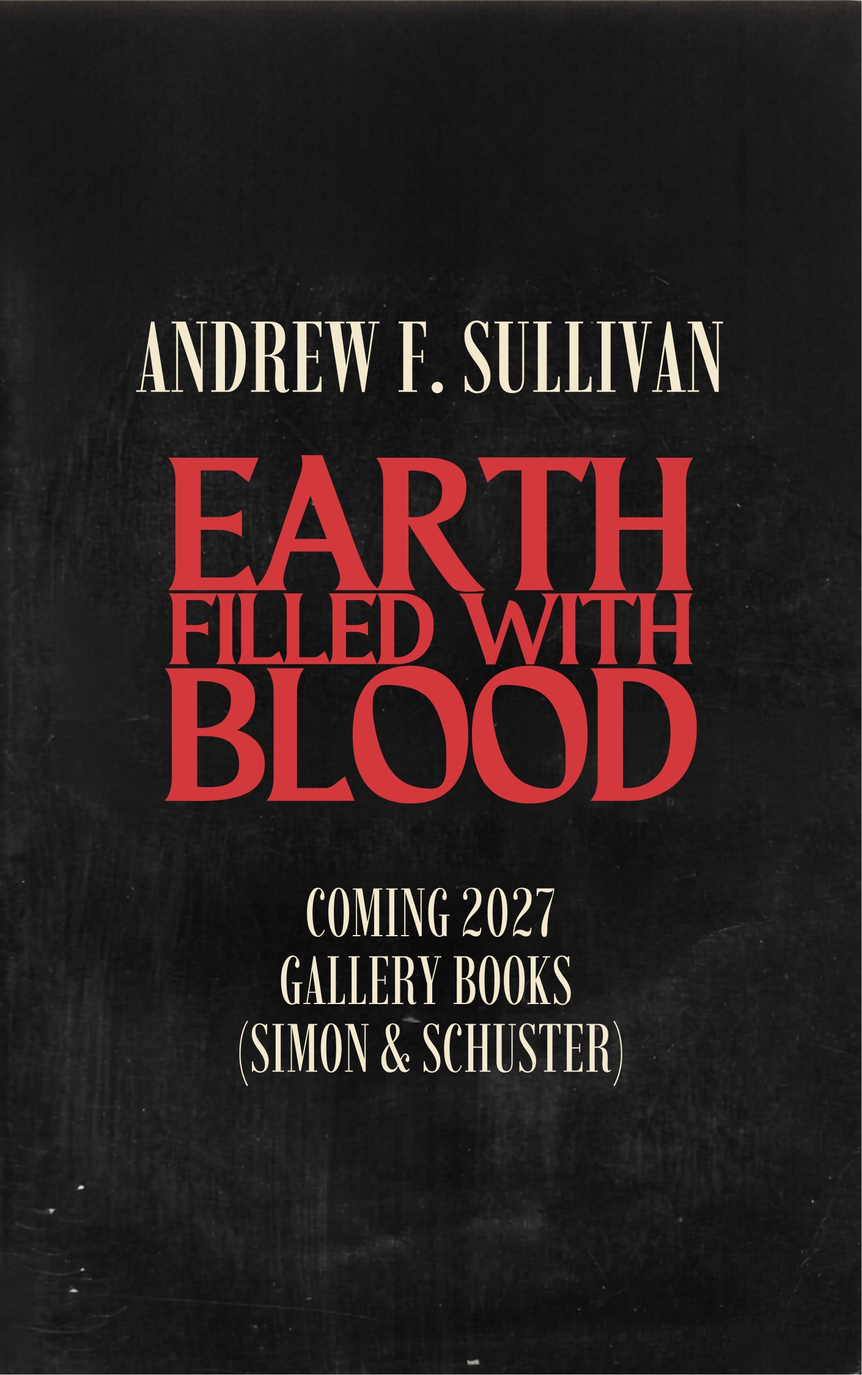
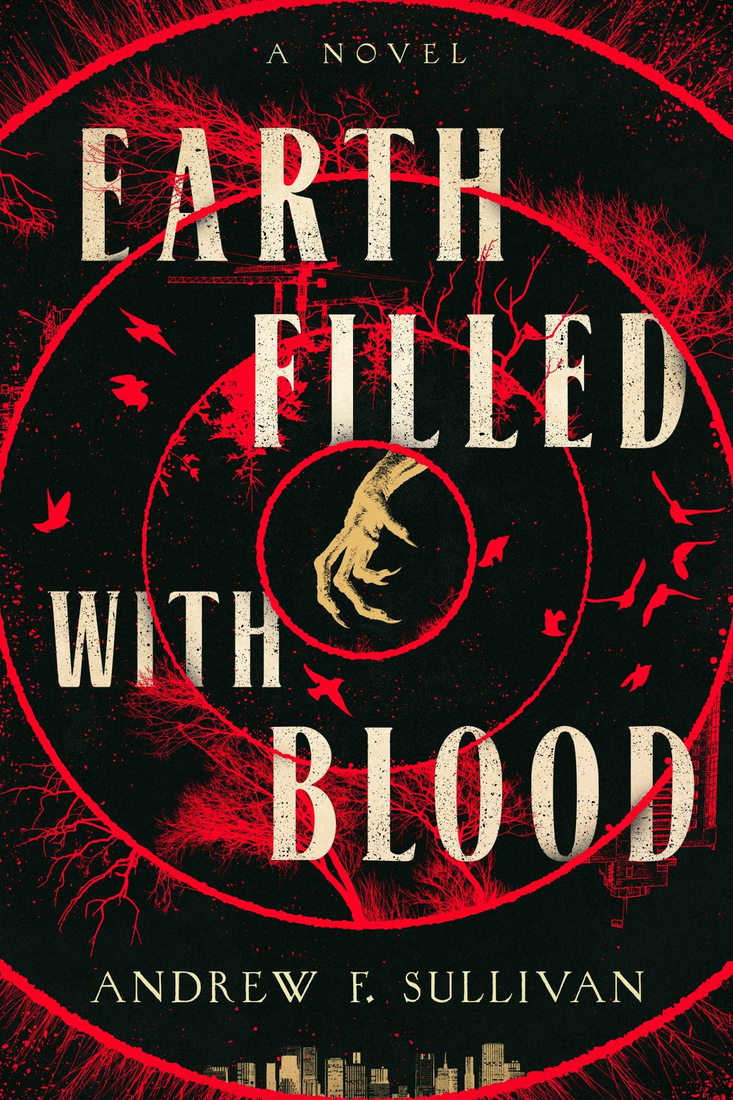
Earth Filled with Blood: final jacket, publisher copy, pre-order link
Claude-Session: https://claude.ai/code/session_018UooQwQgmm4FhudFENBWAr

diff --git a/site/src/content/books.ts b/site/src/content/books.ts
@@ -562,17 +562,21 @@ export const books: Book[] = [
   },
 ];
 
-// Forthcoming — the only facts on the current site are title, publisher, season.
+// Forthcoming — final jacket + publisher copy supplied by PK (Nov 2026).
 export const forthcoming = {
   title: 'Earth Filled with Blood',
   publisher: 'Gallery Books (Simon & Schuster)',
   year: 'Spring 2027',
-  // Placeholder cover supplied by PK — swap for the final jacket when it lands.
   cover: '/images/books/earth-filled-with-blood.jpg',
-  // Two-paragraph writeup supplied by PK.
+  preorder:
+    'https://www.simonandschuster.com/books/Earth-Filled-with-Blood/Andrew-F-Sullivan/9781668242254',
+  // Publisher jacket copy, verbatim as supplied by PK.
   blurb: [
-    `Coming 2027 is Andrew F. Sullivan's highly anticipated follow up to 2023's smash *The Marigold*.`,
-    `*Earth Filled with Blood* is billed as “Nosferatu Meets Succession.” Drawing on Irish folklore, this book follows a group of territorial, supernatural beings desperate to thrive in the modern world, and the ramshackle attempt to halt their domination.`,
+    `*Succession* meets *Nosferatu* in this contemporary gothic bloodbath steeped in Irish folklore from the acclaimed author of *The Marigold* and *The Handyman Method* (with Nick Cutter), about ancient supernatural dynasties fighting to dominate the modern world—and the ramshackle hunters determined to stop them.`,
+    `Garrett Hold was born into a dying dynasty. Buddy Over There has devoted his life to killing families like Garrett’s.`,
+    `Across Canada, ancient blood-drinking creatures have survived for generations by hiding in plain sight. Some control forgotten towns and lonely stretches of highway. Others, like the immensely powerful Mallodun family, have traded old kingdoms for corporate empires, accumulating wealth and influence while quietly feeding on the people around them. When Garrett unexpectedly falls for Fiona Mallodun, he sees an escape from the Holds’s crumbling legacy—and an invitation into a world more powerful and dangerous than anything he has ever known.`,
+    `Buddy, meanwhile, travels those same highways, leaving the unholy and inhuman dead and burning behind him. But when a young survivor joins his crusade, their hunt exposes something far larger than another nest of monsters: the old bloodlines appear to be consolidating, and the Malloduns are at the very center of it.`,
+    `As Garrett is pulled deeper into a domineering family’s terrifying ambitions and Buddy closes in from the outside, their stories race toward a collision that could forever change the balance between predator and prey.`,
   ],
 };
 

diff --git a/site/src/pages/Home.tsx b/site/src/pages/Home.tsx
@@ -44,7 +44,7 @@ export default function Home() {
               </Reveal>
             ))}
 
-            {/* Forthcoming — no cover yet; a striped field holds the slot */}
+            {/* Forthcoming — final jacket, publisher copy, pre-order link */}
             <Reveal delay={books.length * 80}>
               <div
                 className="spot spot--forthcoming"
@@ -73,6 +73,17 @@ export default function Home() {
                       dangerouslySetInnerHTML={{ __html: italicsToHtml(para) }}
                     />
                   ))}
+                  <a
+                    className="spot__enter spot__preorder"
+                    href={forthcoming.preorder}
+                    target="_blank"
+                    rel="noopener noreferrer"
+                  >
+                    <span className="spot__enter-label">Pre-order</span>
+                    <span className="spot__enter-arrow" aria-hidden="true">
+                      →
+                    </span>
+                  </a>
                 </div>
               </div>
             </Reveal>

diff --git a/site/src/styles/home.css b/site/src/styles/home.css
@@ -315,6 +315,24 @@
   width: 32px;
 }
 
+/* The pre-order link is the forthcoming spot's one real destination */
+.spot__preorder {
+  cursor: pointer;
+  text-decoration: none;
+  border-bottom: 1px solid currentColor;
+  padding-bottom: 0.35em;
+}
+
+.spot__preorder:hover .spot__enter-arrow,
+.spot__preorder:focus-visible .spot__enter-arrow {
+  transform: translateX(9px);
+}
+
+.spot__preorder:focus-visible {
+  outline: 2px solid var(--red);
+  outline-offset: 4px;
+}
+
 /* ----------------------------------------------------------------
    Bio
    ---------------------------------------------------------------- */
